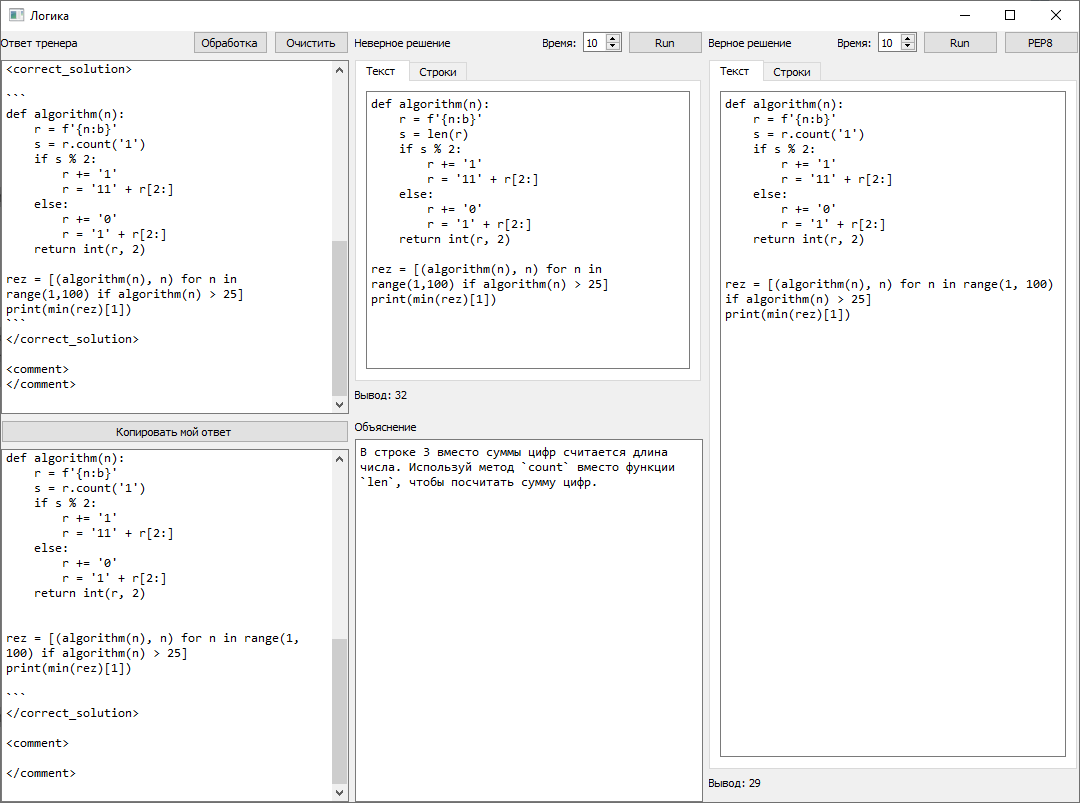
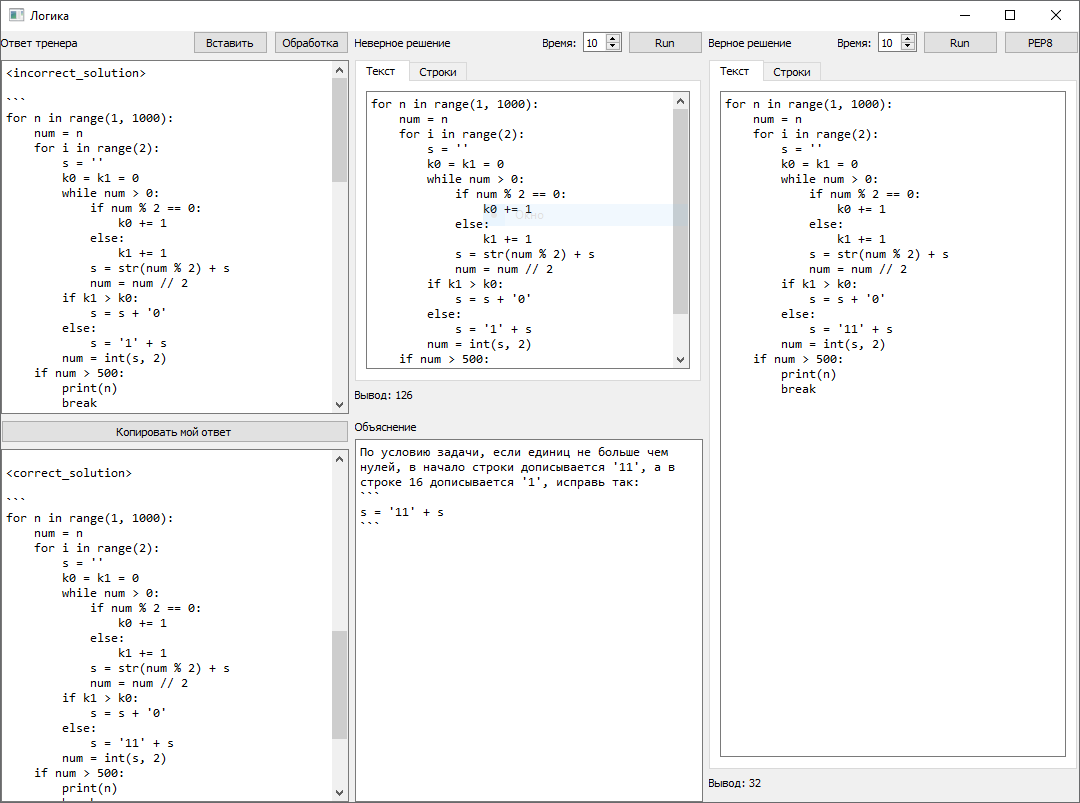
сделал вставку ответа кнопкой

diff --git a/main.py b/main.py
@@ -53,7 +53,7 @@ class MyWidget(QMainWindow):
         self.correct_answer_te.textChanged.connect(self.create_my_answer)
         self.run_incorrect_btn.clicked.connect(self.run_incorrect)
         self.run_correct_btn.clicked.connect(self.run_correct)
-        self.clear_answer.clicked.connect(self.clear)
+        self.insert_answer.clicked.connect(self.insert)
         self.process_btn.clicked.connect(self.processing)
         self.incorrect_answer_tw.currentChanged.connect(self.incorrect_row_generator)
         self.correct_answer_tw.currentChanged.connect(self.correct_row_generator)
@@ -65,8 +65,8 @@ class MyWidget(QMainWindow):
         self.incorrect_code_model = QStandardItemModel()
         self.teacher_comment = ''
 
-    def clear(self):
-        self.teacher_answer_te.clear()
+    def insert(self):
+        self.teacher_answer_te.setPlainText(pyperclip.paste())
 
     def run_incorrect(self):
         code = self.incorrect_answer_te.toPlainText()

diff --git a/README.MD b/README.MD
@@ -6,15 +6,18 @@
 
 ### 0. Возможности:
 
-Удобный вид ответа тренера, автоматический расчёт результатов выполнения программ, форматирование верного решения с 
-помощью **[Black](https://300.ya.ru/QwyIgWnG)**, просмотр программ с номерами строк, формирование текста ответа с тегами.
+Удобный вид ответа тренера, автоматический расчёт результатов выполнения программ, контроль по таймауту, форматирование 
+верного решения с помощью **[Black](https://300.ya.ru/QwyIgWnG)**, просмотр программ с номерами строк, формирование 
+текста ответа с тегами.
    
 ### 1. Как работать? 
 
-Запустить main.py. Дальше вставляем ответ тренера в окно "Ответ тренера" и нажимаем "Обработка", происходит копирование 
-текста по тегам в соответствующие окошки, программы запускаются, вносим правки, при этом, текст правок автоматически 
-вносится в окно "Мой ответ", нажимаем кнопку "Копировать мой ответ" и вставляем в Янг. При проблемах с тегами у тренера 
-просто заполняем нужные поля и формируем ответ, для перехода к следующему, нажимаем "Очистить".
+Запустить main.py. Копируем в Янге ответ тренера со всеми тегами, переходим к окну программы, нажимаем "Вставить", ответ 
+тренера вставляется в окно "Ответ тренера", нажимаем "Обработка", происходит копирование текста по тегам в 
+соответствующие окошки, программы запускаются, вносим правки, при этом, текст правок автоматически вносится в окно 
+"Мой ответ", нажимаем кнопку "Копировать мой ответ" и вставляем в Янг. При проблемах с тегами у тренера просто заполняем 
+нужные поля и формируем ответ, для перехода к следующему, в Янге копируем следующий ответ, переходим к окну программы 
+нажимаем "Вставить". (Повторяем)
 
 ### 2. Как установить?
 
